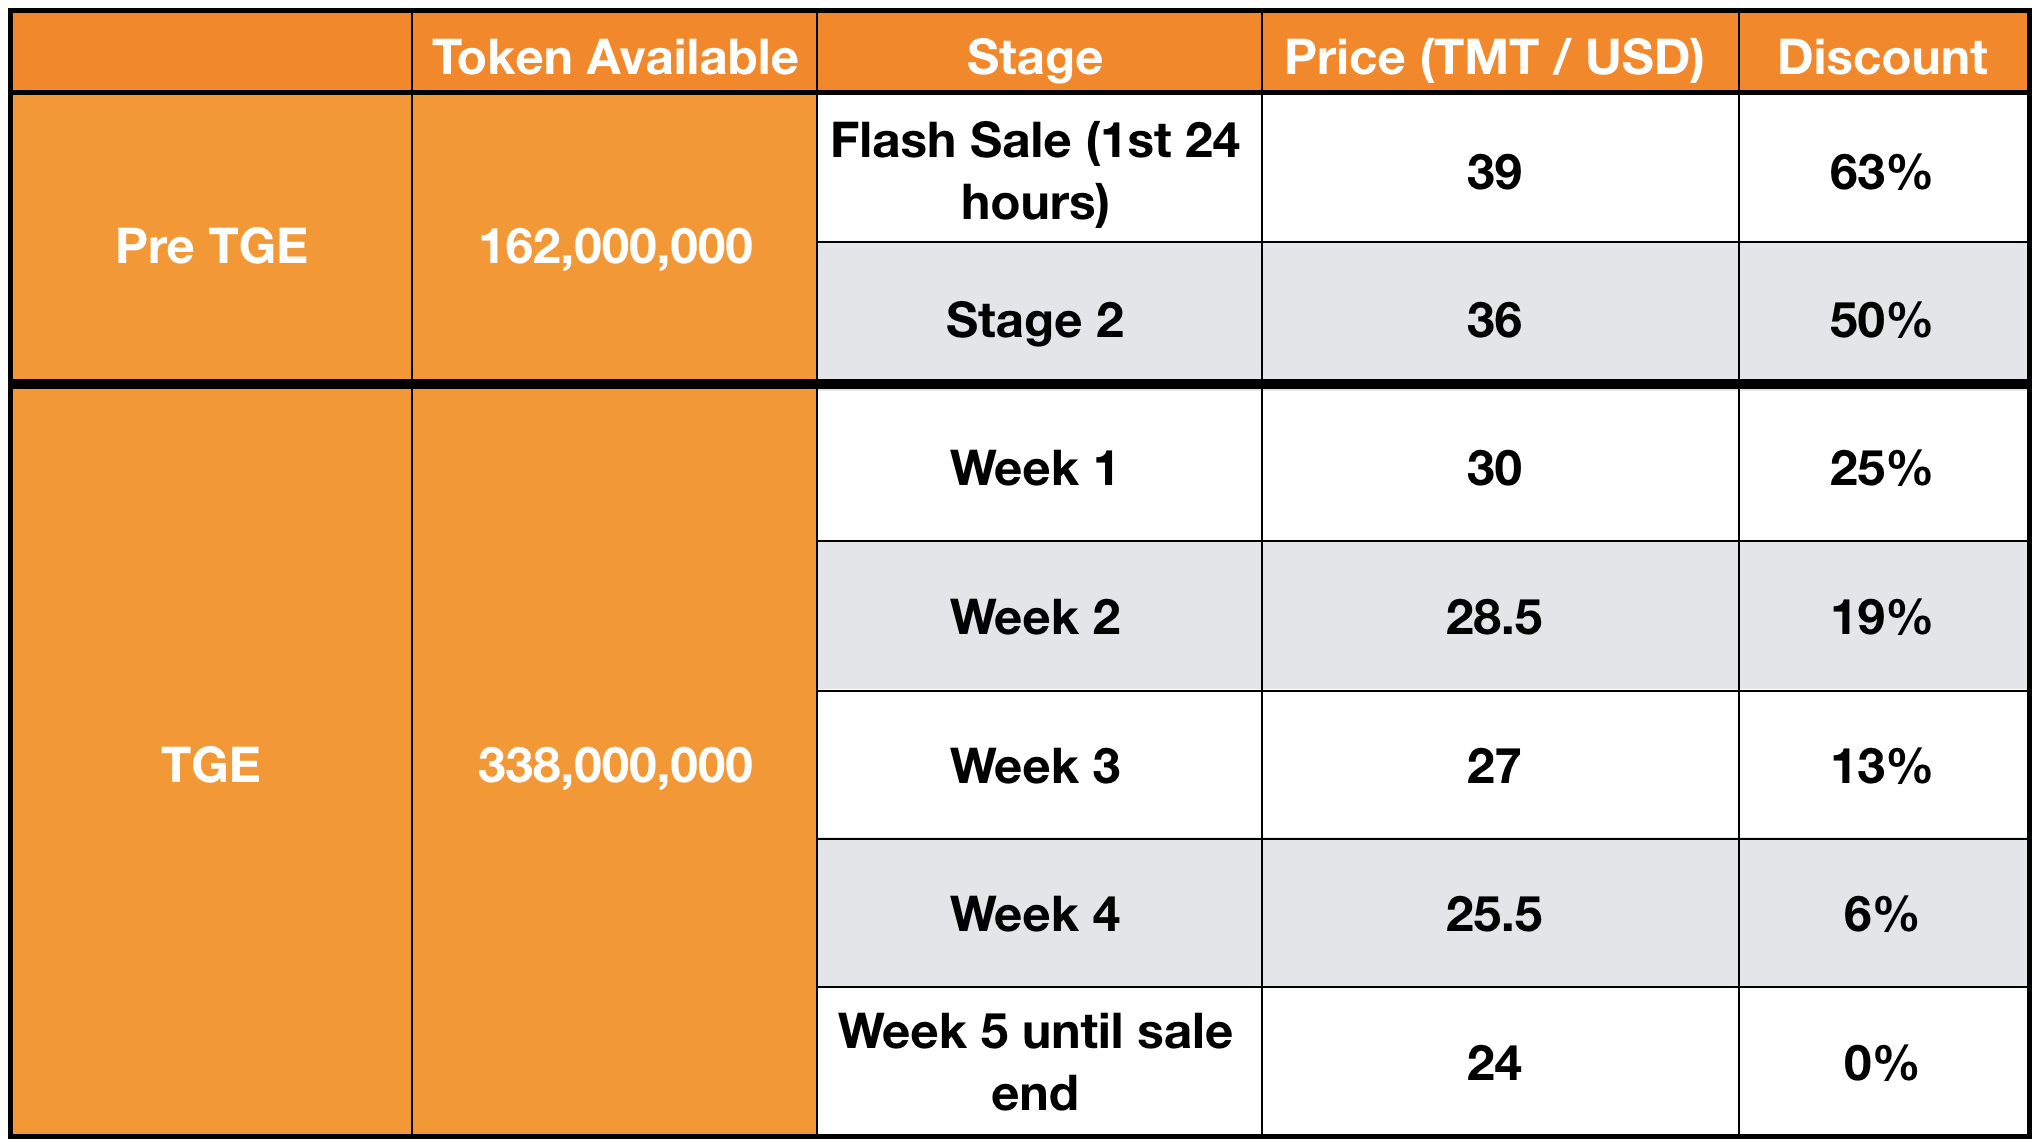
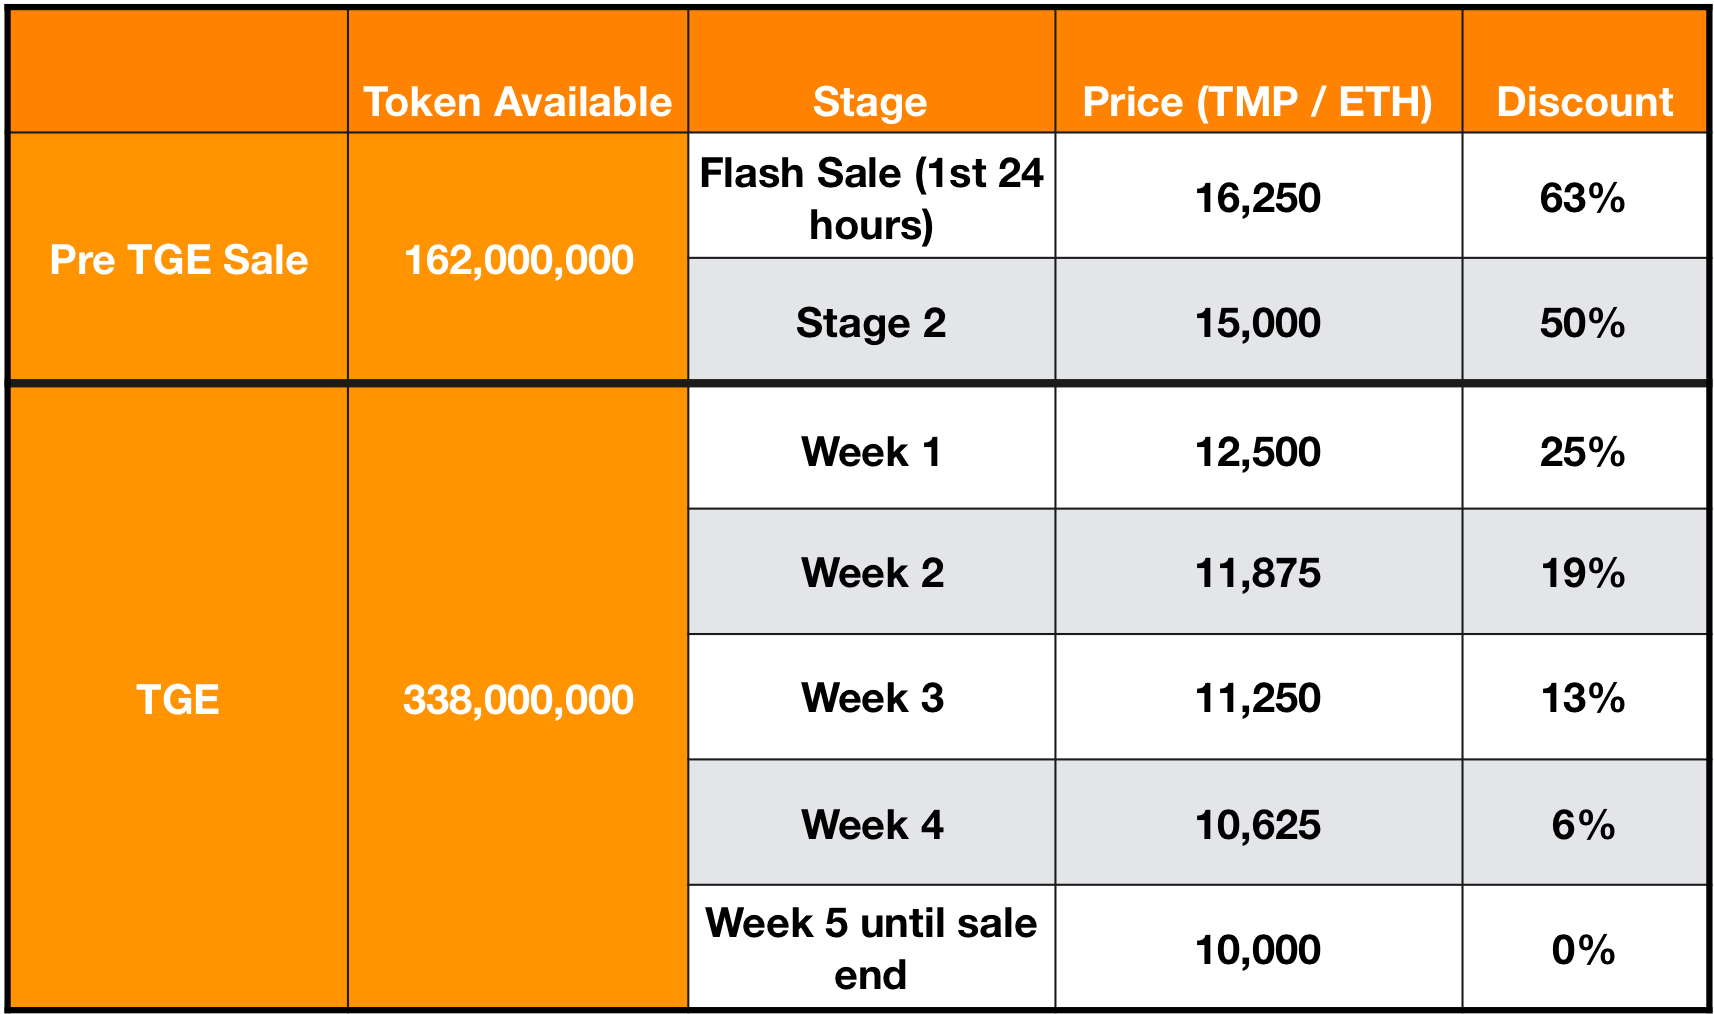
updated tge info

diff --git a/index.html b/index.html
@@ -103,9 +103,10 @@
 							</div>
 						</div><!-- .col  -->
 						<div class="col-lg-5 offset-lg-1 col-md-12">
-							<div class="countdown-box countdown-header text-center">
+							<div style="background-color:rgba(254,254,255,.05);padding:20px;border-radius:3em;text-align:center;">
 								<span class="extra-line"></span>
-								<div class="token-countdown d-flex align-content-stretch" data-date="2018/05/15 07:00:00"></div>
+								<p class="lead color-secondary">Token Generation Event </br> Date Coming Soon</p>
+								<!--<div class="token-countdown d-flex align-content-stretch" data-date="2018/05/15 07:00:00"></div>-->
 								<a href="https://teammateai.typeform.com/to/lr5mne" class="btn btn-sm">Whitelist Registration</a>
 								<!--
 								<ul class="icon-list">
@@ -113,8 +114,7 @@
 									<li><em class="fa fa-won"></em></li>
 									<li><em class="fa fa-cc-visa"></em></li>
 									<li><em class="fa fa-cc-mastercard"></em></li>
-								-->
-								</ul>
+							</ul> -->
 							</div>
 						</div><!-- .col  -->
 					</div><!-- .row  -->
@@ -257,7 +257,7 @@
 				</div>
 			</div>
 
-			<div class="row align-items-center">
+			<!-- <div class="row align-items-center">
 				<div class="col-lg-6">
 					<div class="row event-info">
 						<div class="col-sm-6">
@@ -265,63 +265,56 @@
 								<h6>Pre-Sale Start</h6>
 								<p>May 15th, 2018 (12:00PM PST)</p>
 							</div>
-						</div><!-- .col  -->
+						</div>
 						<div class="col-sm-6">
 							<div class="event-single-info">
 								<h6>Number of TMP available in pre-sale</h6>
 								<p>162,000,000 TMP (16.2%)</p>
 							</div>
-						</div><!-- .col  -->
+						</div>
 						<div class="col-sm-6">
 							<div class="event-single-info">
 								<h6>Pre-Sale End</h6>
 								<p>June 3rd, 2018 (00:00AM PST)</p>
 							</div>
-						</div><!-- .col  -->
+						</div>
 						<div class="col-sm-6">
 							<div class="event-single-info">
 								<h6>Tokens exchange rate</h6>
 								<p>1 ETH = 15,600 TMP (62.5% Bonus)</p>
 							</div>
-						</div><!-- .col  -->
+						</div>
 						<div class="col-sm-6">
 							<div class="event-single-info">
 								<h6>Acceptable currencies</h6>
 								<p>ETH</p>
 							</div>
-						</div><!-- .col  -->
+						</div>
 						<div class="col-sm-6">
 							<div class="event-single-info">
 								<h6>Minimal transaction amount</h6>
 								<p>.01 ETH</p>
 							</div>
-						</div><!-- .col  -->
-					</div><!-- .row  -->
-				</div><!-- .col  -->
+						</div>
+					</div>
+				</div>
 				<div class="col-lg-5 offset-lg-1">
 					<div class="countdown-box text-center">
 						<div class="token-countdown d-flex align-content-stretch" data-date="2018/05/15 07:00:00"></div>
 						<a href="https://teammateai.wufoo.com/forms/zip5kqo0roypd7/" class="btn btn-sm">Whitelist Registration</a>
-						<!--
-						<ul class="icon-list">
-							<li><em class="fa fa-bitcoin"></em></li>
-							<li><em class="fa fa-won"></em></li>
-							<li><em class="fa fa-cc-visa"></em></li>
-							<li><em class="fa fa-cc-mastercard"></em></li>
-						-->
 						</ul>
 					</div>
-				</div><!-- .col  -->
-			</div><!-- .row  -->
+				</div>
+			</div> -->
 
-			<div class="gaps size-3x"></div><div class="gaps size-3x d-none d-md-block"></div><!-- .gaps  -->
+		<!--	<div class="gaps size-3x"></div><div class="gaps size-3x d-none d-md-block"></div>  .gaps  -->
 
 			<div class="row text-center">
 				<div class="col-md-6">
 					<div class="single-chart res-m-btm">
 						<h3 class="sub-heading">Price <br class="hidden-xs">Structure</h3>
 						<div>
-							<img src="imgs/infograph1_1.png" alt="chart">
+							<img src="imgs/infograph1.png" alt="chart">
 						</div>
 					</div>
 				</div><!-- .col  -->
@@ -374,12 +367,12 @@
 						<p>TeamMate V1 Alpha Testing </p>
 					</div>
 				</div><!-- .col  -->
-				<div class="col-lg width-0">
+				<!--   <div class="col-lg width-0">
 					<div class="single-roadmap roadmap-down">
 						<h6>Q2 2018</h6>
 						<p>Token Generation Event</p>
 					</div>
-				</div><!-- .col  -->
+				</div>  -->
 				<div class="col-lg">
 					<div class="single-roadmap roadmap-sm">
 						<h6>Q3 2018</h6>
@@ -474,7 +467,7 @@
 							<a href="https://www.linkedin.com/in/andreamariotti/"><em class="fa fa-linkedin"></em></a>
 							<img src="imgs/TeamPics/AndreaM.png" alt="team"></div>
 						<div class="grid-name"><h5 class="team-name">Andrea Mariotti</h5></div>
-						<div class="grid-job"><span class="team-title">Director of R&D</span></div>
+						<div class="grid-job"><span class="team-title">CTO</span></div>
 					</div>
 				</div><!-- .col  -->
 
@@ -810,30 +803,17 @@
 										<div class="card-header">
 											<h5>
 												<a data-toggle="collapse" data-target="#collapse-2-1">
-												  When does the pre-sale start?<span class="plus-minus"><span class="ti ti-angle-up"></span></span>
+												  When does the sale start?<span class="plus-minus"><span class="ti ti-angle-up"></span></span>
 												</a>
 											</h5>
 										</div>
 										<div id="collapse-2-1" class="collapse show" data-parent="#accordion-2">
 											<div class="card-body">
-												<p>The pre-sale will start on May 15th, 2018. (Exact time TBA) </p>
+												<p>The sale date has not been determined and will be announced here once finalized.</p>
 											</div>
 										</div>
 									</div>
-									<div class="card">
-										<div class="card-header">
-											<h5>
-												<a class="collapsed" data-toggle="collapse" data-target="#collapse-2-2">
-													When does the public sale start?<span class="plus-minus"><span class="ti ti-angle-up"></span></span>
-												</a>
-											</h5>
-										</div>
-										<div id="collapse-2-2" class="collapse" data-parent="#accordion-2">
-											<div class="card-body">
-												<p>The public sale will start on May 20th, 2018. (Exact time TBA) </p>
-											</div>
-										</div>
-									</div>
+
 									<div class="card">
 										<div class="card-header">
 											<h5>
